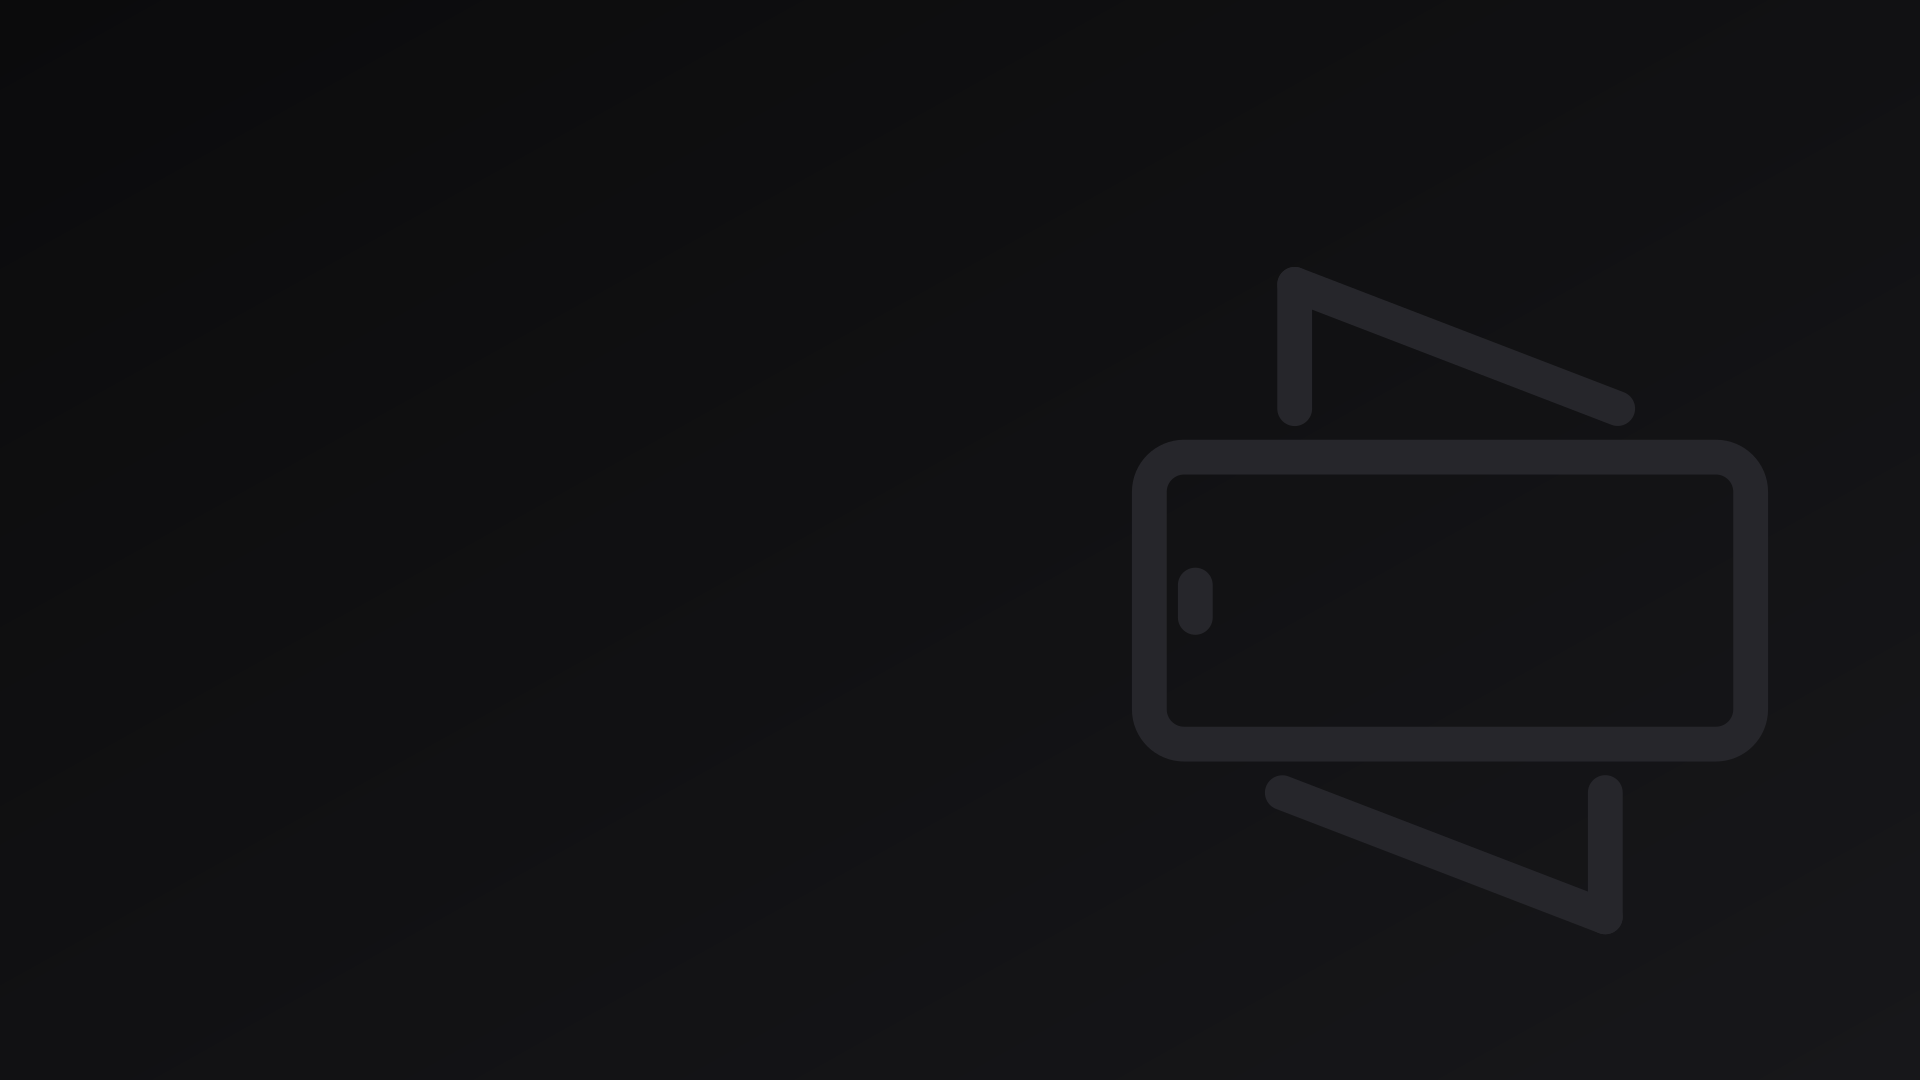
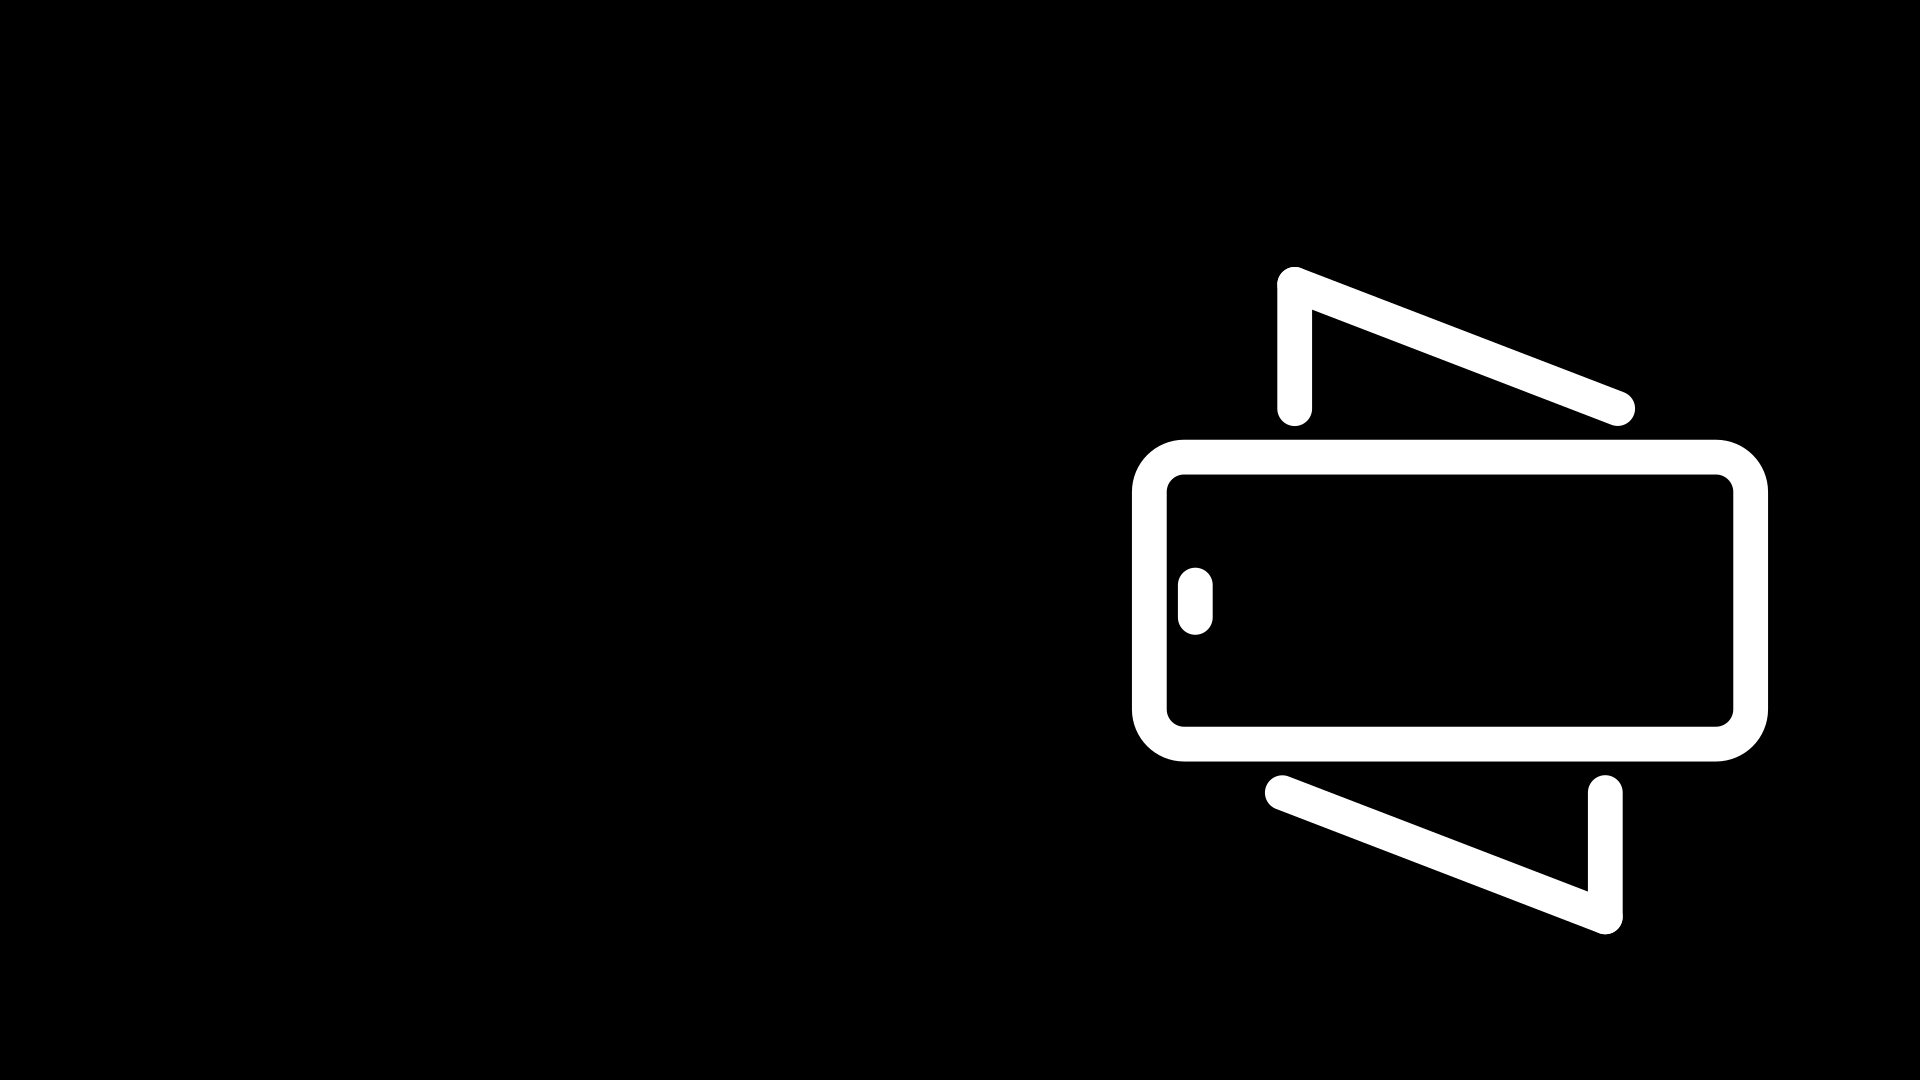
Background white-on-black; About trademarks; 'Tested against' devices
- assets/background.png: the logo in white on black.
- About: Apple's attribution for AirPlay, iPhone, iPad and Mac, plus
  Cisco's IOS line (the privacy example names iOS).
- Long description and COMPATIBILITY.md list the tested devices from
  Sentry: Fire TV Stick 4K Select (OS 2.0, build 532); iPhone 17 Pro
  (iOS 27.0.1); iPad mini 4 (iPadOS 15.8.8); MacBook Early 2015
  (macOS 11.7.11), with their mirroring versions.

Changed region(s): [[0.5625, 0.2444, 0.9375, 0.8861], [0.7812, 0.7944, 1.0, 1.0]]

diff --git a/app/src/About.tsx b/app/src/About.tsx
@@ -110,8 +110,9 @@ export const About = ({receiverName, onResetIdentity, compatibilityMode, onCompa
 
         <Heading>Trademarks</Heading>
         <Text style={styles.small}>
-          AirPlay is a trademark of Apple Inc., registered in the U.S. and other countries. RosellaView is not
-          affiliated with or endorsed by Apple Inc.
+          Apple, AirPlay, iPhone, iPad and Mac are trademarks of Apple Inc., registered in the U.S. and other countries
+          and regions. IOS is a trademark or registered trademark of Cisco in the U.S. and other countries and is used
+          under license. RosellaView is not affiliated with or endorsed by Apple Inc.
         </Text>
 
         <Heading>Settings</Heading>

diff --git a/docs/COMPATIBILITY.md b/docs/COMPATIBILITY.md
@@ -17,3 +17,16 @@ RosellaView mirrors the screen of an iPhone, iPad or Mac and plays its audio. Fo
 - **Copy-protected (HDCP) video,** such as most paid streaming apps (films and TV shows you rent or subscribe to). iOS leaves protected video out of mirroring.
 - **If the picture doesn't appear** on some device, **Compatibility Mode** (About & privacy, on the start screen) plays it through the TV's standard video player instead. Then the darkest and lightest shades from iPhones and iPads can merge.
 - **Other apps that "cast" or play their video "on the TV"** rather than letting the screen be mirrored. Like TikTok, they may show only their controls. RosellaView supports mirroring, not AirPlay video handoff.
+
+## Tested against
+
+From Sentry (sender model, OS and AirPlay versions, as reported by the senders), 2026-11-07:
+
+| Device | Model | Software | AirPlay |
+|---|---|---|---|
+| Fire TV Stick 4K Select (receiver) | — | OS 2.0 (TV Ship/532) | — |
+| iPhone 17 Pro | iPhone18,1 | iOS 27.0.1 (24A446) | 980.77.1 |
+| iPad mini 4 (Wi-Fi) | iPad5,1 | iPadOS 15.8.8 (19H422) | 620.8.2 |
+| MacBook (Retina, 12-inch, Early 2015) | MacBook8,1 | macOS Big Sur 11.7.11 (20G1443) | 550.10 |
+
+Update this (and the "Tested against" list in `assets/listing/long-description.txt`) when new senders are tested: query Sentry's `sender.model`, `sender.os_version`, `sender.os_build` and `sender.airplay_version` tags.
